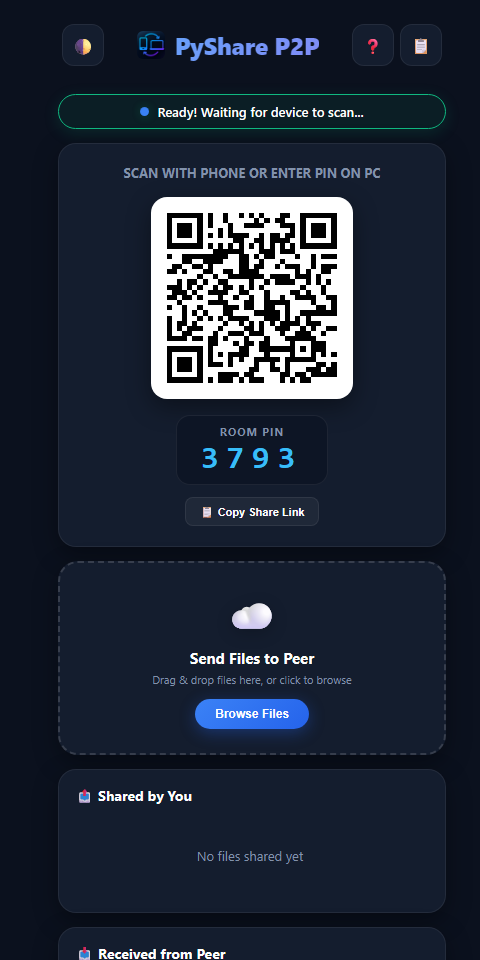
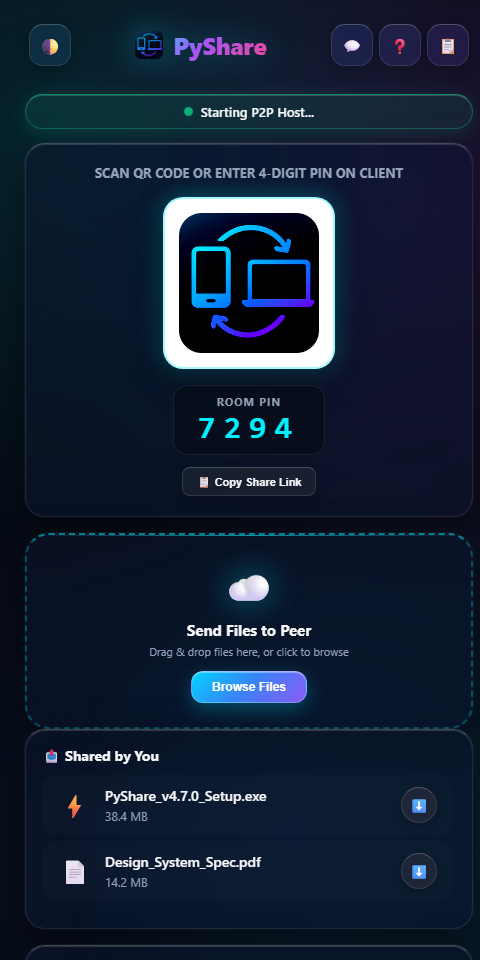
docs: bump version to v4.7.0 and update all screenshot assets with new Cyberpunk & Liquid Glass UI

diff --git a/sw.js b/sw.js
@@ -1,8 +1,8 @@
 /* ==========================================================================
-   PyShare v4.6.0 - Progressive Web App Service Worker
+   PyShare v4.7.0 - Progressive Web App Service Worker
    ========================================================================== */
 
-const CACHE_NAME = 'pyshare-shell-v4.6.0';
+const CACHE_NAME = 'pyshare-shell-v4.7.0';
 const PRECACHE_RESOURCES = [
   '/',
   '/guide.html',

diff --git a/p2p.js b/p2p.js
@@ -1,5 +1,5 @@
 /* ==========================================================================
-   PyShare v4.6.0 - WebRTC Peer-to-Peer Transfer Engine
+   PyShare v4.7.0 - WebRTC Peer-to-Peer Transfer Engine
    Direct Device-to-Device • Zero App Install • Works across any browser
    ========================================================================== */
 

diff --git a/feedback.js b/feedback.js
@@ -1,5 +1,5 @@
 /* ==========================================================================
-   PyShare v4.6.0 - Universal Feedback & Help System
+   PyShare v4.7.0 - Universal Feedback & Help System
    Client, Host & Web P2P Universal Support
    ========================================================================== */
 

diff --git a/styles.css b/styles.css
@@ -1,5 +1,5 @@
 /* ==========================================================================
-   PyShare v4.6.0 - Cyberpunk Neon Glass Design System (Dark & Light)
+   PyShare v4.7.0 - Cyberpunk Neon Glass Design System (Dark & Light)
    ========================================================================== */
 
 :root {

diff --git a/scripts.js b/scripts.js
@@ -1,5 +1,5 @@
 /* ==========================================================================
-   PyShare v4.6.0 - Universal Client & App Logic
+   PyShare v4.7.0 - Universal Client & App Logic
    ========================================================================== */
 
 let pcFiles = [];

diff --git a/README.md b/README.md
@@ -21,7 +21,7 @@
 
 <br/>
 
-[🌐 **Open Web App (pyshare.vercel.app)**](https://pyshare.vercel.app) • [⬇ **Download Standalone EXE**](https://github.com/pattanayakpratik/PyShare/releases/download/v4.6.0/PyShare.exe) • [📦 **Download ZIP**](https://github.com/pattanayakpratik/PyShare/releases/download/v4.6.0/PyShare.zip) • [Screenshots](#screenshots) • [Two Ways to Use](#two-ways-to-use-pyshare) • [What's New](#whats-new) • [Key Features](#key-features) • [Architecture](#system-architecture) • [Usage Guide](#usage-guide)
+[🌐 **Open Web App (pyshare.vercel.app)**](https://pyshare.vercel.app) • [⬇ **Download Standalone EXE**](https://github.com/pattanayakpratik/PyShare/releases/download/v4.7.0/PyShare.exe) • [📦 **Download ZIP**](https://github.com/pattanayakpratik/PyShare/releases/download/v4.7.0/PyShare.zip) • [Screenshots](#screenshots) • [Two Ways to Use](#two-ways-to-use-pyshare) • [What's New](#whats-new) • [Key Features](#key-features) • [Architecture](#system-architecture) • [Usage Guide](#usage-guide)
 
 </div>
 
@@ -53,20 +53,20 @@ PyShare is built around complete flexibility: **downloading an app is 100% optio
 <span id="screenshots"></span>
 ## 📸 Screenshots
 
-### 🖥 Desktop Host Studio (Dark & Light Mode)
-The complete workstation command center on PC with live dynamic QR code, rotating 4-digit PIN, 1-click Cloudflare Internet Tunnel toggle, Windows OS clipboard push, and received files manager.
+### 🖥 Desktop Host Studio (Cyberpunk Neon Dark & Luxury Liquid Glass Light)
+The complete workstation command center on PC with multi-stop cyan & violet glows, live dynamic QR code, rotating 4-digit PIN, 1-click Cloudflare Internet Tunnel toggle, Windows OS clipboard push, and received files manager.
 
 <p align="center">
-  <img src="Screenshots/host_dark.png" alt="PyShare Host Studio Dark Mode" width="49%" style="border-radius: 12px; box-shadow: 0 8px 24px rgba(0,0,0,0.3);">
-  <img src="Screenshots/host_white.png" alt="PyShare Host Studio Light Mode" width="49%" style="border-radius: 12px; box-shadow: 0 8px 24px rgba(0,0,0,0.3);">
+  <img src="Screenshots/host_dark.png" alt="PyShare Host Studio Cyberpunk Neon Glass" width="49%" style="border-radius: 12px; box-shadow: 0 8px 24px rgba(0,0,0,0.3);">
+  <img src="Screenshots/host_white.png" alt="PyShare Host Studio Luxury Liquid Glass" width="49%" style="border-radius: 12px; box-shadow: 0 8px 24px rgba(0,0,0,0.3);">
 </p>
 
 ### 📱 Mobile Phone as Host (Zero PC Required — Dark & Light Mode)
 Your phone can now act as the **Host** directly from any mobile browser! Phone A taps **Create Room** to generate an instant Room PIN and QR code; Phone B or PC connects to send/receive files peer-to-peer over WebRTC with zero app installation.
 
 <p align="center">
-  <img src="Screenshots/mobile_host_dark.png" alt="Mobile Phone Host Dark Mode" width="46%" style="max-width: 250px; border-radius: 16px; margin: 6px; box-shadow: 0 6px 18px rgba(0,0,0,0.3);">
-  <img src="Screenshots/mobile_host_white.png" alt="Mobile Phone Host Light Mode" width="46%" style="max-width: 250px; border-radius: 16px; margin: 6px; box-shadow: 0 6px 18px rgba(0,0,0,0.3);">
+  <img src="Screenshots/mobile_host_dark.png" alt="Mobile Phone Host Cyberpunk Glass" width="46%" style="max-width: 250px; border-radius: 16px; margin: 6px; box-shadow: 0 6px 18px rgba(0,0,0,0.3);">
+  <img src="Screenshots/mobile_host_white.png" alt="Mobile Phone Host Liquid Glass" width="46%" style="max-width: 250px; border-radius: 16px; margin: 6px; box-shadow: 0 6px 18px rgba(0,0,0,0.3);">
 </p>
 
 ### 📱 Mobile Client Views & PIN Login
@@ -74,15 +74,15 @@ Touch-friendly mobile interface with PIN keypad authentication, built-in How-To 
 
 <p align="center">
   <img src="Screenshots/client_login.png" alt="Mobile PIN Keypad" width="31%" style="max-width: 210px; border-radius: 16px; margin: 4px; box-shadow: 0 4px 14px rgba(0,0,0,0.25);">
-  <img src="Screenshots/client_dark.png" alt="Mobile Client Dark" width="31%" style="max-width: 210px; border-radius: 16px; margin: 4px; box-shadow: 0 4px 14px rgba(0,0,0,0.25);">
-  <img src="Screenshots/client_white.png" alt="Mobile Client Light" width="31%" style="max-width: 210px; border-radius: 16px; margin: 4px; box-shadow: 0 4px 14px rgba(0,0,0,0.25);">
+  <img src="Screenshots/client_dark.png" alt="Mobile Client Cyberpunk Glass" width="31%" style="max-width: 210px; border-radius: 16px; margin: 4px; box-shadow: 0 4px 14px rgba(0,0,0,0.25);">
+  <img src="Screenshots/client_white.png" alt="Mobile Client Liquid Glass" width="31%" style="max-width: 210px; border-radius: 16px; margin: 4px; box-shadow: 0 4px 14px rgba(0,0,0,0.25);">
 </p>
 
 ### 🌐 Instant Web Transfer & 📖 Interactive How-To Guide
-Left: Direct browser-to-browser WebRTC file sharing on desktop with drag-and-drop. Right: Built-in visual user manual and troubleshooting guide precached for offline use.
+Left: Direct browser-to-browser WebRTC file sharing in the responsive 2-column Studio layout on desktop with drag-and-drop. Right: Built-in visual user manual and troubleshooting guide precached for offline use.
 
 <p align="center">
-  <img src="Screenshots/web_transfer.png" alt="PyShare Instant Web Transfer" width="49%" style="border-radius: 12px; box-shadow: 0 8px 24px rgba(0,0,0,0.3);">
+  <img src="Screenshots/web_transfer.png" alt="PyShare Instant Web Transfer Studio" width="49%" style="border-radius: 12px; box-shadow: 0 8px 24px rgba(0,0,0,0.3);">
   <img src="Screenshots/guide.png" alt="PyShare How-To Guide" width="49%" style="border-radius: 12px; box-shadow: 0 8px 24px rgba(0,0,0,0.3);">
 </p>
 
@@ -93,8 +93,8 @@ Left: Direct browser-to-browser WebRTC file sharing on desktop with drag-and-dro
 
 **Windows Users:** Run PyShare directly as a single portable application — **zero Python setup required.**
 
-* **PyShare (Windows Standalone EXE)** 👉 **[Download PyShare.exe](https://github.com/pattanayakpratik/PyShare/releases/download/v4.6.0/PyShare.exe)**
-* **PyShare (Compressed ZIP Archive)** 👉 **[Download PyShare.zip](https://github.com/pattanayakpratik/PyShare/releases/download/v4.6.0/PyShare.zip)**
+* **PyShare (Windows Standalone EXE)** 👉 **[Download PyShare.exe](https://github.com/pattanayakpratik/PyShare/releases/download/v4.7.0/PyShare.exe)**
+* **PyShare (Compressed ZIP Archive)** 👉 **[Download PyShare.zip](https://github.com/pattanayakpratik/PyShare/releases/download/v4.7.0/PyShare.zip)**
 * **GitHub Releases** 👉 **[PyShare Releases](https://github.com/pattanayakpratik/PyShare/releases)**
 
 > [!NOTE]
@@ -103,6 +103,30 @@ Left: Direct browser-to-browser WebRTC file sharing on desktop with drag-and-dro
 ---
 
 <span id="whats-new"></span>
+## 🆕 What's New in v4.7.0
+
+- 🔮 **Cyberpunk Neon Glass Design System (Dark Mode):**
+  - Deep space-black (`#060913`) backdrop infused with multi-stop radial glows in electric cyan (`#00f0ff`) and neon violet (`#a855f7`).
+  - Ultra-high translucency frosted glass slabs (`backdrop-filter: blur(24px) saturate(190%)`) with specular top borders (`border-top: 1px solid rgba(255, 255, 255, 0.22)`).
+  - Ambient glowing status pills, neon keypad buttons, and custom cyberpunk neon scrollbars.
+- 💎 **Luxury Liquid Glass Design System (Light Mode):**
+  - Crystal-clear pearl backdrop (`#f8fafc`) with soft pastel ambient blurs and specular `#ffffff` top borders.
+  - High-contrast cerulean blue typography (`#0284c7`) and tactile frosted white keys with WCAG AAA legibility.
+  - Fixed focus and hover states so input boxes, cards, and buttons remain crisp and vibrant without washing out.
+- 🖥 **Desktop & Big-Screen Responsive Studio Layout:**
+  - Expanded out of mobile constraints on screens 900px to 1180px+ into an ultra-wide Studio experience.
+  - Dual-column files management grid and side-by-side Host QR/PIN and upload dropzones.
+- ⚡ **Global Floating Upload Queue Drawer:**
+  - Fixed transfer queue positioning to float unobtrusively at `bottom: 24px; right: 24px` (`width: 380px`).
+  - Features real-time MB/s speed meter, individual progress bars, and a minimize button (`✕`).
+- 📶 **Data-Saver Notice & Offline Transparency Callouts:**
+  - Added clear in-app notices explaining that Web mode uses ~50 KB for room signaling, but large file transfers on the same Wi-Fi consume **0 MB of mobile data**.
+- 🤖 **Automated CI/CD Quality Pipeline (`ci.yml`):**
+  - GitHub Actions runs syntax and compile checks on Python code (`main.py`) and verifies the integrity of all 17 critical static and P2P assets on every push and pull request.
+  - Automatically verifies live production health (`HTTP 200 OK`) on edge deployments upon merge to `main`.
+
+---
+
 ## 🆕 What's New in v4.6.0
 
 - 💬 **Universal Help & Feedback System:**
